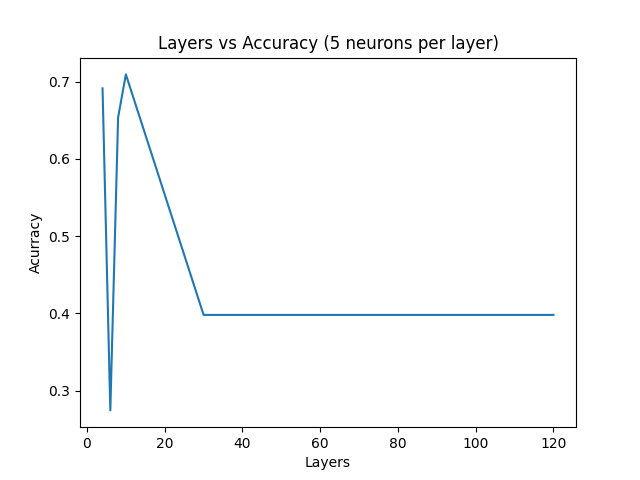
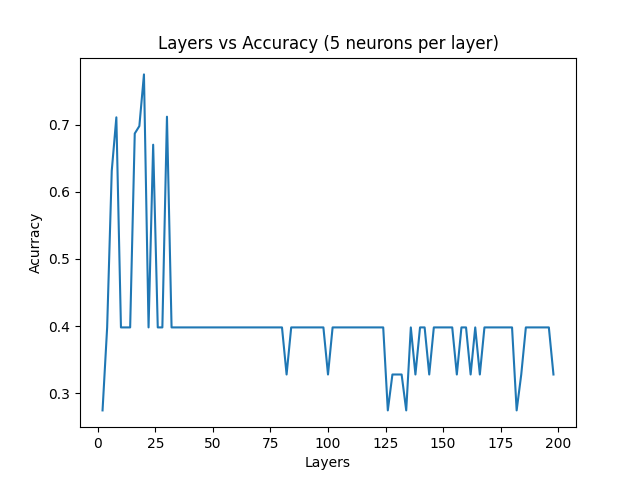
Added regularization term comparison

diff --git a/Act_Adjustment/layer_comparison.py b/Act_Adjustment/layer_comparison.py
@@ -19,7 +19,7 @@ def kfold_accuracy(x, y, mlp):
     accuracy /= kf.get_n_splits()
     return accuracy
 
-def train_MLP_classifier(neurons_per_layer,layers):
+def MLP_from_size(neurons_per_layer,layers):
     size = (neurons_per_layer,)*layers
     MLP = MLPClassifier(hidden_layer_sizes=size,max_iter = 300,activation = "relu", solver = 'adam')
     data, target = load_wine(return_X_y=True)
@@ -30,12 +30,22 @@ def train_MLP_classifier(neurons_per_layer,layers):
     print('Accuracy: {:.2f}'.format(accuracy))
     return accuracy
 
+def MLP_from_regulator(regulator):
+    size = (20,)*5
+    MLP = MLPClassifier(hidden_layer_sizes=size,max_iter = 300,activation = "relu", solver = 'adam',alpha=regulator)
+    data, target = load_wine(return_X_y=True)
+    X_train, X_test, y_train, y_test = train_test_split(data, target, test_size=0.2, random_state=42)
+    MLP.fit(X_train, y_train)
+    accuracy = kfold_accuracy(data, target, MLP)
+    return accuracy
+
 if __name__ == "__main__":
-    neurons = 5
-    test_sizes = [4,6,8,10,30,40,50,80,90,100,120]
+    neurons = 20
+    test_sizes = np.arange(2,200,2)
+    print(test_sizes)
     acc = []
     for size in test_sizes:
-        accuracy = train_MLP_classifier(neurons,size)
+        accuracy = MLP_from_size(neurons,size)
         acc.append(accuracy)
     plt.figure(1)
     plt.plot(test_sizes, acc)
@@ -43,6 +53,34 @@ if __name__ == "__main__":
     plt.ylabel("Acurracy")
     plt.title(f"Layers vs Accuracy ({neurons} neurons per layer)")
     plt.savefig(f"./out/{neurons}_neurons.png")
+    regulators_small = np.arange(1e-5,1,1e-3) 
+    regulators_big = np.arange(1,100,10)
+    acc_small = []
+    for alpha in regulators_small:
+        accuracy = MLP_from_regulator(alpha)
+        acc_small.append(accuracy)
+    acc_big = []
+    for alpha in regulators_big:
+        accuracy = MLP_from_regulator(alpha)
+        acc_big.append(accuracy)
+    plt.figure(2)
+    plt.plot(regulators_small, acc_small)
+    plt.xlabel('Alpha')
+    plt.ylabel("Acurracy")
+    plt.title(f"Alpha vs Accuracy ({5} neurons per layer)")
+    plt.savefig(f"./out/small_alpha_comparison.png")
+    plt.figure(3)
+    plt.plot(regulators_big, acc_big)
+    plt.xlabel('Alpha')
+    plt.ylabel("Acurracy")
+    plt.title(f"Alpha vs Accuracy ({5} neurons per layer)")
+    plt.savefig(f"./out/big_alpha_comparison.png")
+
+
+    
+
+
+
 
         
 
